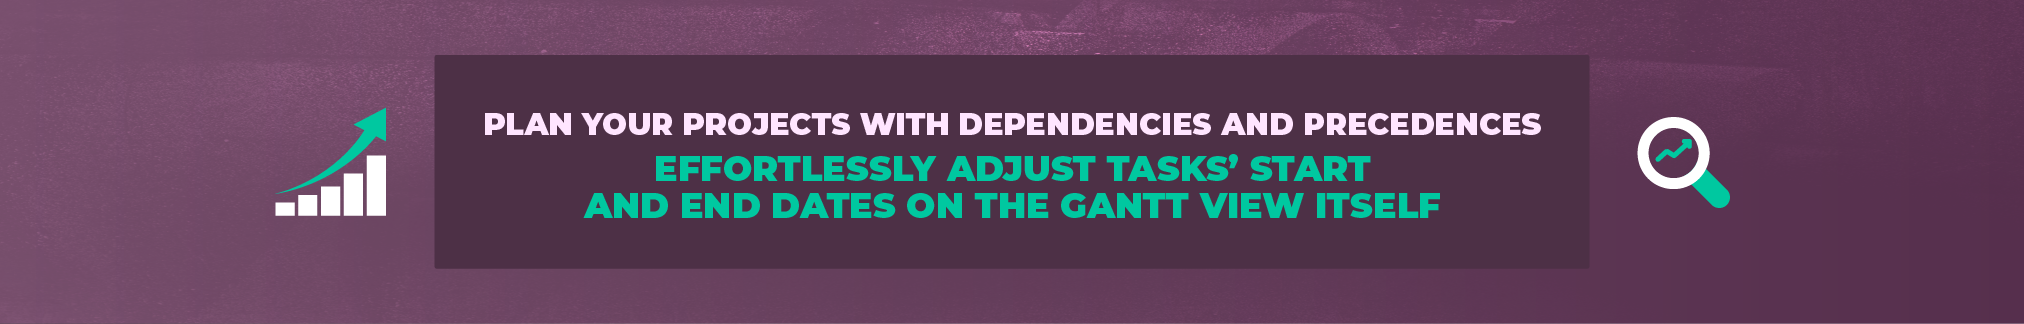
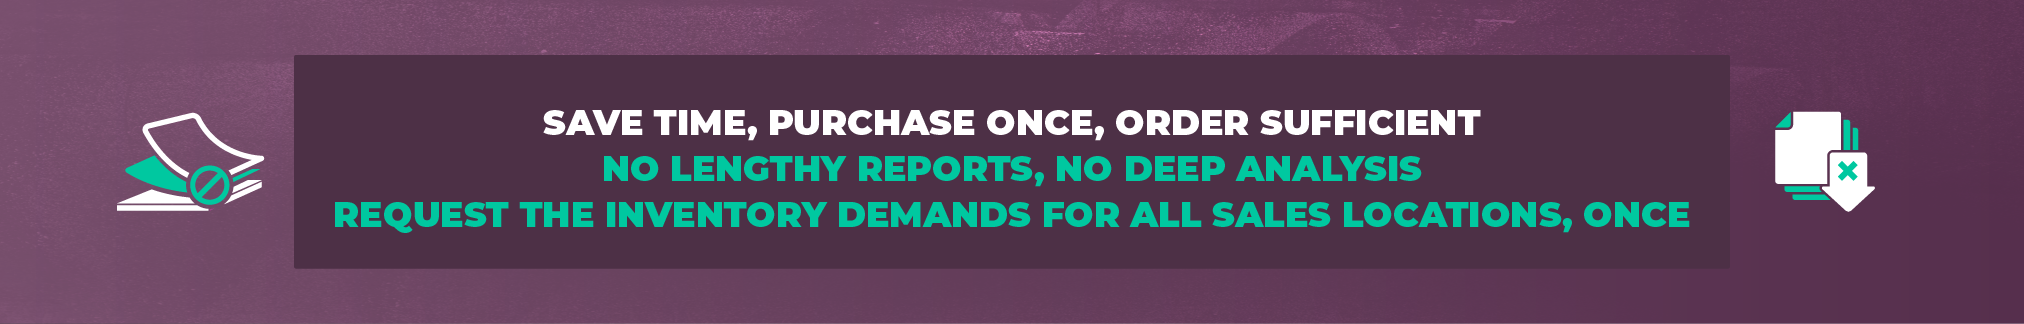
ffffffffffff

Changed region(s): [[0.0311, 0.1543, 0.9338, 0.8333], [0.7782, 0.1852, 0.8715, 0.2778]]

diff --git a/7d_pos_test/static/description/index.html b/7d_pos_test/static/description/index.html
@@ -65,9 +65,10 @@
 <!-- -------------Hero section ------------------------------------------------------------------->
 <section
      style="display: flex; align-items: center; justify-content: center; margin-bottom: 20px; font-family:sans-serif;">
-     <img src="images/4 Dynamic Gantt.jpeg" style="width: 100%; height: auto;">
+     <img src="images/5 Reordering Rules.jpeg" style="width: 100%; height: auto;">
 </section>
 <!-- ------------------------------------------------------------------------------------------ -->
+
 
 
 
@@ -86,66 +87,234 @@
 
      <div
           style="background-color: #f6edf3; border-radius: 8px; padding: 20px; box-shadow: 0px 4px 8px rgba(0, 0, 0, 0.1); margin: 20px;">
-          <img src="images/features 1 .png" style="width: 90px; padding: 10px 0;" />
-          <h2 style="font-size: 20px; margin-bottom: 10px;"> With the Dynamic Gantt View module, you can slide the
-               task-bar left to right and vice versa</h2>
+          <img src="images/features 1.png" style="width: 90px; padding: 10px 0;" />
+          <h2 style="font-size: 20px; margin-bottom: 10px;"> Adds a simple checkbox to the Native Feature of Odoo’s
+               Reordering Rules</h2>
           <!-- <p>text1111111.</p> -->
      </div>
      <div
           style="background-color: #f6edf3; border-radius: 8px; padding: 20px; box-shadow: 0px 4px 8px rgba(0, 0, 0, 0.1); margin: 20px;">
-          <img src="images/features 2 .png" style="width: 90px; padding: 10px 0;" />
-          <h2 style="font-size: 20px; margin-bottom: 10px;">This way, you can get a better view of Dependencies and
-               Precedencies, start of tasks through end of tasks
+          <img src="images/features 2.png" style="width: 90px; padding: 10px 0;" />
+          <h2 style="font-size: 20px; margin-bottom: 10px;">Manages the cumulative demand-supply of inventory across
+               your Warehouses and Sales Locations
           </h2>
           <!-- <p>text22222.</p> -->
      </div>
      <div
           style="background-color: #f6edf3; border-radius: 8px; padding: 20px; box-shadow: 0px 4px 8px rgba(0, 0, 0, 0.1); margin: 20px;">
-          <img src="images/features 3 .png" style="width: 90px; padding: 10px 0;" />
-          <h2 style="font-size: 20px; margin-bottom: 10px;"> Group the tasks by Day, Week, Month and Year</h2>
-          <!-- <p>text22222.</p> -->
+          <img src="images/features 3.png" style="width: 90px; padding: 10px 0;" />
+          <h2 style="font-size: 20px; margin-bottom: 10px;"> Auto-Creates RFQs demanding the Maximum Quantity when your
+               cumulative inventory drops below its Minimum Quantity</h2>
      </div>
 </section>
 <!-- ------------------------------------------------------------------------------------------ -->
 
 
 
+<!-- ------------------------------------------------------------------------------------------ -->
+
+
 <!----------------------- HOW IT WORKS Section ------------------------------------------------>
 <section style="
      display: grid;
-     grid-template-columns: 1fr 1fr;
+     grid-template-columns: 1fr 1fr 1fr;
      grid-template-rows: auto;
      justify-content: center;
      background-color: #f6edf3;
      padding-bottom: 50px;
      padding-top: 50px;
      font-family:sans-serif;">
-     <h2 style="grid-column: 1/3; text-align: center; color: #676767; font-weight: 700;">
+     <h2 style="grid-column: 1/4; text-align: center; color: #676767; font-weight: 700;">
           HOW IT WORKS
      </h2>
      <div
           style="background-color: #ffffff; border-radius: 8px; padding: 20px; box-shadow: 0px 4px 8px rgba(0, 0, 0, 0.1); margin: 20px;">
-          <!-- <img src="images/HIW-1.png" style="width: 90px; padding: 10px 0;" /> -->
-          <h2 style="font-size: 20px; margin-bottom: 10px;"> For every Task you / your team create under a Project, you
-               need to define a Start / End Date/Time to give you a clear Gantt View
+          <img src="images/HIW 3.png" style="width: 10vh;" />
 
-
+          <h2 style="font-size: 20px; margin-bottom: 10px;">
+               Configure the Rule:
           </h2>
-          <!-- <p>text1111111.</p> -->
+          <p>1- Define the Minimum and Maximum Quantity of each SKU (Product) to meet the cumulative inventory
+               demands of the warehouses and all sales locations
+          </p>
+          <p>2- Tick the Checkbox [Based on Stock_Type POS & WH</p>
+          <p>3- Select the destination Warehouse location</p>
+          <p>4- Define the schedule you need this module to read the inventory levels</p>
+          <p>5- Ensure every SKU has its Vendor and Cost Price pre-defined</p>
      </div>
      <div
           style="background-color: #ffffff; border-radius: 8px; padding: 20px; box-shadow: 0px 4px 8px rgba(0, 0, 0, 0.1); margin: 20px;">
-          <!-- <img src="images/HIW-2.png" style="width: 90px; padding: 10px 0;" /> -->
-          <h2 style="font-size: 20px; margin-bottom: 10px;"> Tasks can be simultaneously done by one or more persons,
-               this way you can view which assignee is dependent on the closure of one task so another can start
-               thereafter or work simultaneously without waiting for the precedent to close a task
-          </h2>
-          <!-- <p>text22222.</p> -->
+          <img src="images/HIW 1.png" style="width: 10vh;" />
+          <h2 style="font-size: 20px; margin-bottom: 10px;">
+               Configure the Scheduler</h2>
+          <p>Define the schedule you need the App to create automated RFQs in the [Run Scheduler] (accessed in debug
+               mode)
+          </p>
+          <p>Rule in Effect:
+          </p>
+          <p>As the cumulative stock quantity (across all locations) of an SKU drops below its
+               Minimums, a RFQ will be autogenerated in the Purchase app for the deficit quantity to reach that SKU’s
+               Maximums
+          </p>
      </div>
+     <div
+          style="background-color: #ffffff; border-radius: 8px; padding: 20px; box-shadow: 0px 4px 8px rgba(0, 0, 0, 0.1); margin: 20px;">
+          <img src="images/HIW 2.png" style="width: 10vh;" />
+          <h2 style="font-size: 20px; margin-bottom: 10px;">
+               Conclude the Process
+          </h2>
+          <p>All you need to do is Convert that RFQ to a Purchase Order </p>
+     </div>
+     <div
+          style="grid-column: 1/4; background-color: #ffffff; border-radius: 8px; padding: 20px; box-shadow: 0px 4px 8px rgba(0, 0, 0, 0.1); margin: 20px;">
+          <img src="images/HIW 3.png" style="width: 10vh;" />
+          <h2 style="font-size: 20px; margin-bottom: 10px;">
+               EXAMPLE
+          </h2>
+          <p>Product X; Minimum 10 / Maximum 25 / Current Inventory 9 Our Redefined Reordering Rules
+               will create a RFQ for 16 ( where; 16 + 9 = 25 ) Maximum Here, 9 has dropped below the minimum of 10
+               and here 16 is the deficit to reach its maximum of 25
+          </p>
+     </div>
+</section>
 
+<section style="display: grid;
+     grid-template-columns:1fr 1fr;
+     grid-template-rows: auto;
+     justify-content: center;
+     padding-bottom: 50px;
+     padding-top: 50px;
+     background-color: #ffffff;
+     margin-bottom: 50px; font-family:sans-serif;">
+     <h2 style="grid-column: 1/3; text-align: center; color: #676767; font-weight: 700;">
+          REQUIRED MODULE
+     </h2>
+     <div
+          style=" grid-column: 1/3 ;background-color: #f6edf3; border-radius: 8px; padding: 20px; box-shadow: 0px 4px 8px rgba(0, 0, 0, 0.1); margin: 20px;">
+          <img src="images/REQUIRED MODULE- Stock_Type.png" style="width: 90px; padding: 10px 0;" />
+          <h2 style="font-size: 20px; margin-bottom: 10px;"> Our Studio Field in the Inventory App called Stock_Type
+               will be required Download our Stock_Type studio field that helps in quicker inventory management and
+               simplified inventory readings
+          </h2>
 
+     </div>
 </section>
 <!-- ------------------------------------------------------------------------------------------ -->
+
+
+
+
+
+
+
+
+
+<!-- service block -->
+<!-- <section class="sec-pad">
+          <div class="container">
+               <div class="row justify-content-center text-center">
+                    <div class="col-lg-9">
+                         <h2>Categorize Your Various Inventory Locations, Make Viewing Stock Details Easier!</h2>
+                         <p>Refrain from Extensive Downloads of Stock Files and Reports</p>
+                    </div>
+               </div>
+               <div class="row mt30 justify-content-center" data-cues="slideInUp" data-delay="200">
+                    <div class="col-lg-4 col-md-6 mt30">
+                         <div class="r-g-card shadow border cssbg-1 swhovr">
+                              <div class="pair-btwn">
+                                   <div class="imagesicons"> <img src="images/icons/browser.png" alt="icon"> </div>
+                              </div>
+                              <div class="card-usefor">
+                                   <h3> Categorizes your stock locations</h3>
+                                   <p class="mt10">which makes it easier to view only the specifics, not everything</p>
+                              </div>
+                         </div>
+                    </div>
+                    <div class="col-lg-4 col-md-6 mt30">
+                         <div class="r-g-card shadow rg-bg-3x text-white swhovr">
+                              <div class="pair-btwn">
+                                   <div class="imagesicons"> <img src="images/icons/discord.png" alt="icon"> </div>
+                              </div>
+                              <div class="card-usefor">
+                                   <h3>Game Development</h3>
+                                   <p class="mt10">Lorem ipsum dolor sit amet, consectetur adipiscing elit, sed do
+                                        eiusmod tempor incididunt. </p>
+                              </div>
+                              <a href="#" class="inine-btn">Learn More</a>
+                         </div>
+                    </div>
+                    <div class="col-lg-4 col-md-6 mt30">
+                         <div class="r-g-card shadow border cssbg-1 swhovr">
+                              <div class="pair-btwn">
+                                   <div class="imagesicons"> <img src="images/icons/website.png" alt="icon"> </div>
+                              </div>
+                              <div class="card-usefor">
+                                   <h3>Web Development</h3>
+                                   <p class="mt10">Lorem ipsum dolor sit amet, consectetur adipiscing elit, sed do
+                                        eiusmod tempor incididunt. </p>
+                              </div>
+                              <a href="#" class="inine-btn">Learn More</a>
+                         </div>
+                    </div>
+               </div>
+          </div>
+     </section> -->
+<!-- // -->
+
+<!-- Feature Points -->
+<!-- <section class="why-choose-us sec-pad">
+          <div class="container">
+               <div class="row">
+                    <div class="col-lg-6">
+                         <h2>More reasons companies around the world chooses Rundal</h2>
+                         <p class="mt15">Lorem ipsum dolor sit amet, consectetur adipiscing elit, sed do eiusmod tempor
+                              incididunt ut labore et dolore magna aliqua. </p>
+                    </div>
+               </div>
+               <div class="row mt30" data-cues="slideInUp" data-delay="200">
+                    <div class="col-lg-3 col-md-6 mt30">
+                         <div class="r-g-card rgnl1 shadow unniqbg" data-background="images/shape/line-bg-7.svg">
+                              <div class="icondiv"><img src="images/icons/target.png" alt="img"></div>
+                              <div class="datadiv">
+                                   <h3><span>Target Audience</span> 20.5K</h3>
+                                   <p>We provide solutions and free consultation.</p>
+                              </div>
+                         </div>
+                    </div>
+                    <div class="col-lg-3 col-md-6 mt30">
+                         <div class="r-g-card rgnl2 shadow unniqbg" data-background="images/shape/line-bg-8.svg">
+                              <div class="icondiv"><img src="images/icons/discount.png" alt="img"></div>
+                              <div class="datadiv">
+                                   <h3><span>Growth in Sale</span> 98.2%</h3>
+                                   <p>We provide solutions and free consultation.</p>
+                              </div>
+                         </div>
+                    </div>
+                    <div class="col-lg-3 col-md-6 mt30">
+                         <div class="r-g-card rgnl3 shadow unniqbg" data-background="images/shape/line-bg-9.svg">
+                              <div class="icondiv"><img src="images/icons/transaction.png" alt="img"></div>
+                              <div class="datadiv">
+                                   <h3><span>Money Saving</span> 20.5k</h3>
+                                   <p>We provide solutions and free consultation.</p>
+                              </div>
+                         </div>
+                    </div>
+                    <div class="col-lg-3 col-md-6 mt30">
+                         <div class="r-g-card rgnl4 shadow unniqbg" data-background="images/shape/line-bg-10.svg">
+                              <div class="icondiv"><img src="images/icons/marketings.png" alt="img"></div>
+                              <div class="datadiv">
+                                   <h3><span>Advertising Campaign</span> 75.2K</h3>
+                                   <p>We provide solutions and free consultation.</p>
+                              </div>
+                         </div>
+                    </div>
+               </div>
+          </div>
+     </section> -->
+<!-- // -->
+
+<!-- Videos Section -->
+
 
 
 <section style="
@@ -153,10 +322,18 @@
      padding: 10px;
      font-family:sans-serif;">
      <div style="padding: 5vw 3vw;">
-          <a href="https://www.youtube.com/embed/PmRXYRXgffo" target="_blank"
+          <a href="https://www.youtube.com/embed/LpO5GzOkH68" target="_blank"
                style="text-decoration: none; display: block; text-align: center;">
 
-               <img src="images/ssgant.jpeg" alt="Image 1" style="width:80%; box-shadow: 0px 4px 8px rgba(0, 0, 0, 1);">
+               <img src="images/sspart1.jpeg" alt="Image 1"
+                    style="width:80%; box-shadow: 0px 4px 8px rgba(0, 0, 0, 1);">
+          </a>
+     </div>
+     <div style="padding:5vw 3vw;">
+          <a href=" https://www.youtube.com/embed/WGyOBtBBwz4" target="_blank"
+               style="text-decoration: none; display: block; text-align: center;">
+
+               <img src="images/sspart2.jpeg" alt="Image 2" style="width:80%;box-shadow: 0px 4px 8px rgba(0, 0, 0, 1);">
           </a>
      </div>
 
